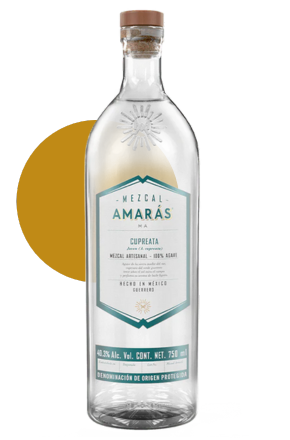
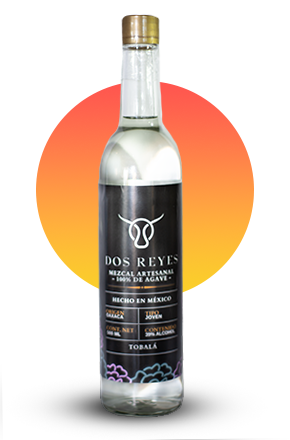
se cambiaron las fotos de los productos del index

diff --git a/index.php b/index.php
@@ -100,8 +100,6 @@
                     <h5 class="subtitulo">Sobre</h5>
                     <h2>Nosotros</h2>
                     <p>
-                        Entiendo, aquí tienes una versión revisada sin repetir tanto el nombre del mezcal:
-
                         ¡Bienvenidos a 2 Reyes! Somos una destilería artesanal de mezcal arraigada en el corazón de Oaxaca, México. Nuestra pasión por la autenticidad y la excelencia se refleja en cada botella que producimos.
                     </p>
                     <p>
@@ -127,17 +125,12 @@
             <p class="text-center">Explora nuestra colección de mezcales artesanales, donde la tradición se fusiona con la innovación para ofrecerte experiencias únicas en cada sorbo.</p>
             <a href="" class="btn text-center mb-5">Todos nuestros productos</a>
             <div class="row">
-                <div class="col-md-4 text-center">
+                <div class="col-md-6 text-center">
                     <img src="img/mezcal1.png" alt="">
                     <h4>Nombre</h4>
                     <a class="btn" href="#">Más información</a>
                 </div>
-                <div class="col-md-4 text-center">
-                    <img src="img/mezcal2.png" alt="">
-                    <h4>Nombre</h4>
-                    <a class="btn" href="#">Más información</a>
-                </div>
-                <div class="col-md-4 text-center">
+                <div class="col-md-6 text-center">
                     <img src="img/mezcal3.png" alt="">
                     <h4>Nombre</h4>
                     <a class="btn" href="#">Más información</a>

diff --git a/mix_&_food.php b/mix_&_food.php
@@ -276,6 +276,7 @@ sub { bottom: -.25em; }
 }
 
 .cf:after { clear: both; }
+
 .cf { *zoom: 1; }
 
 /*for all*/
